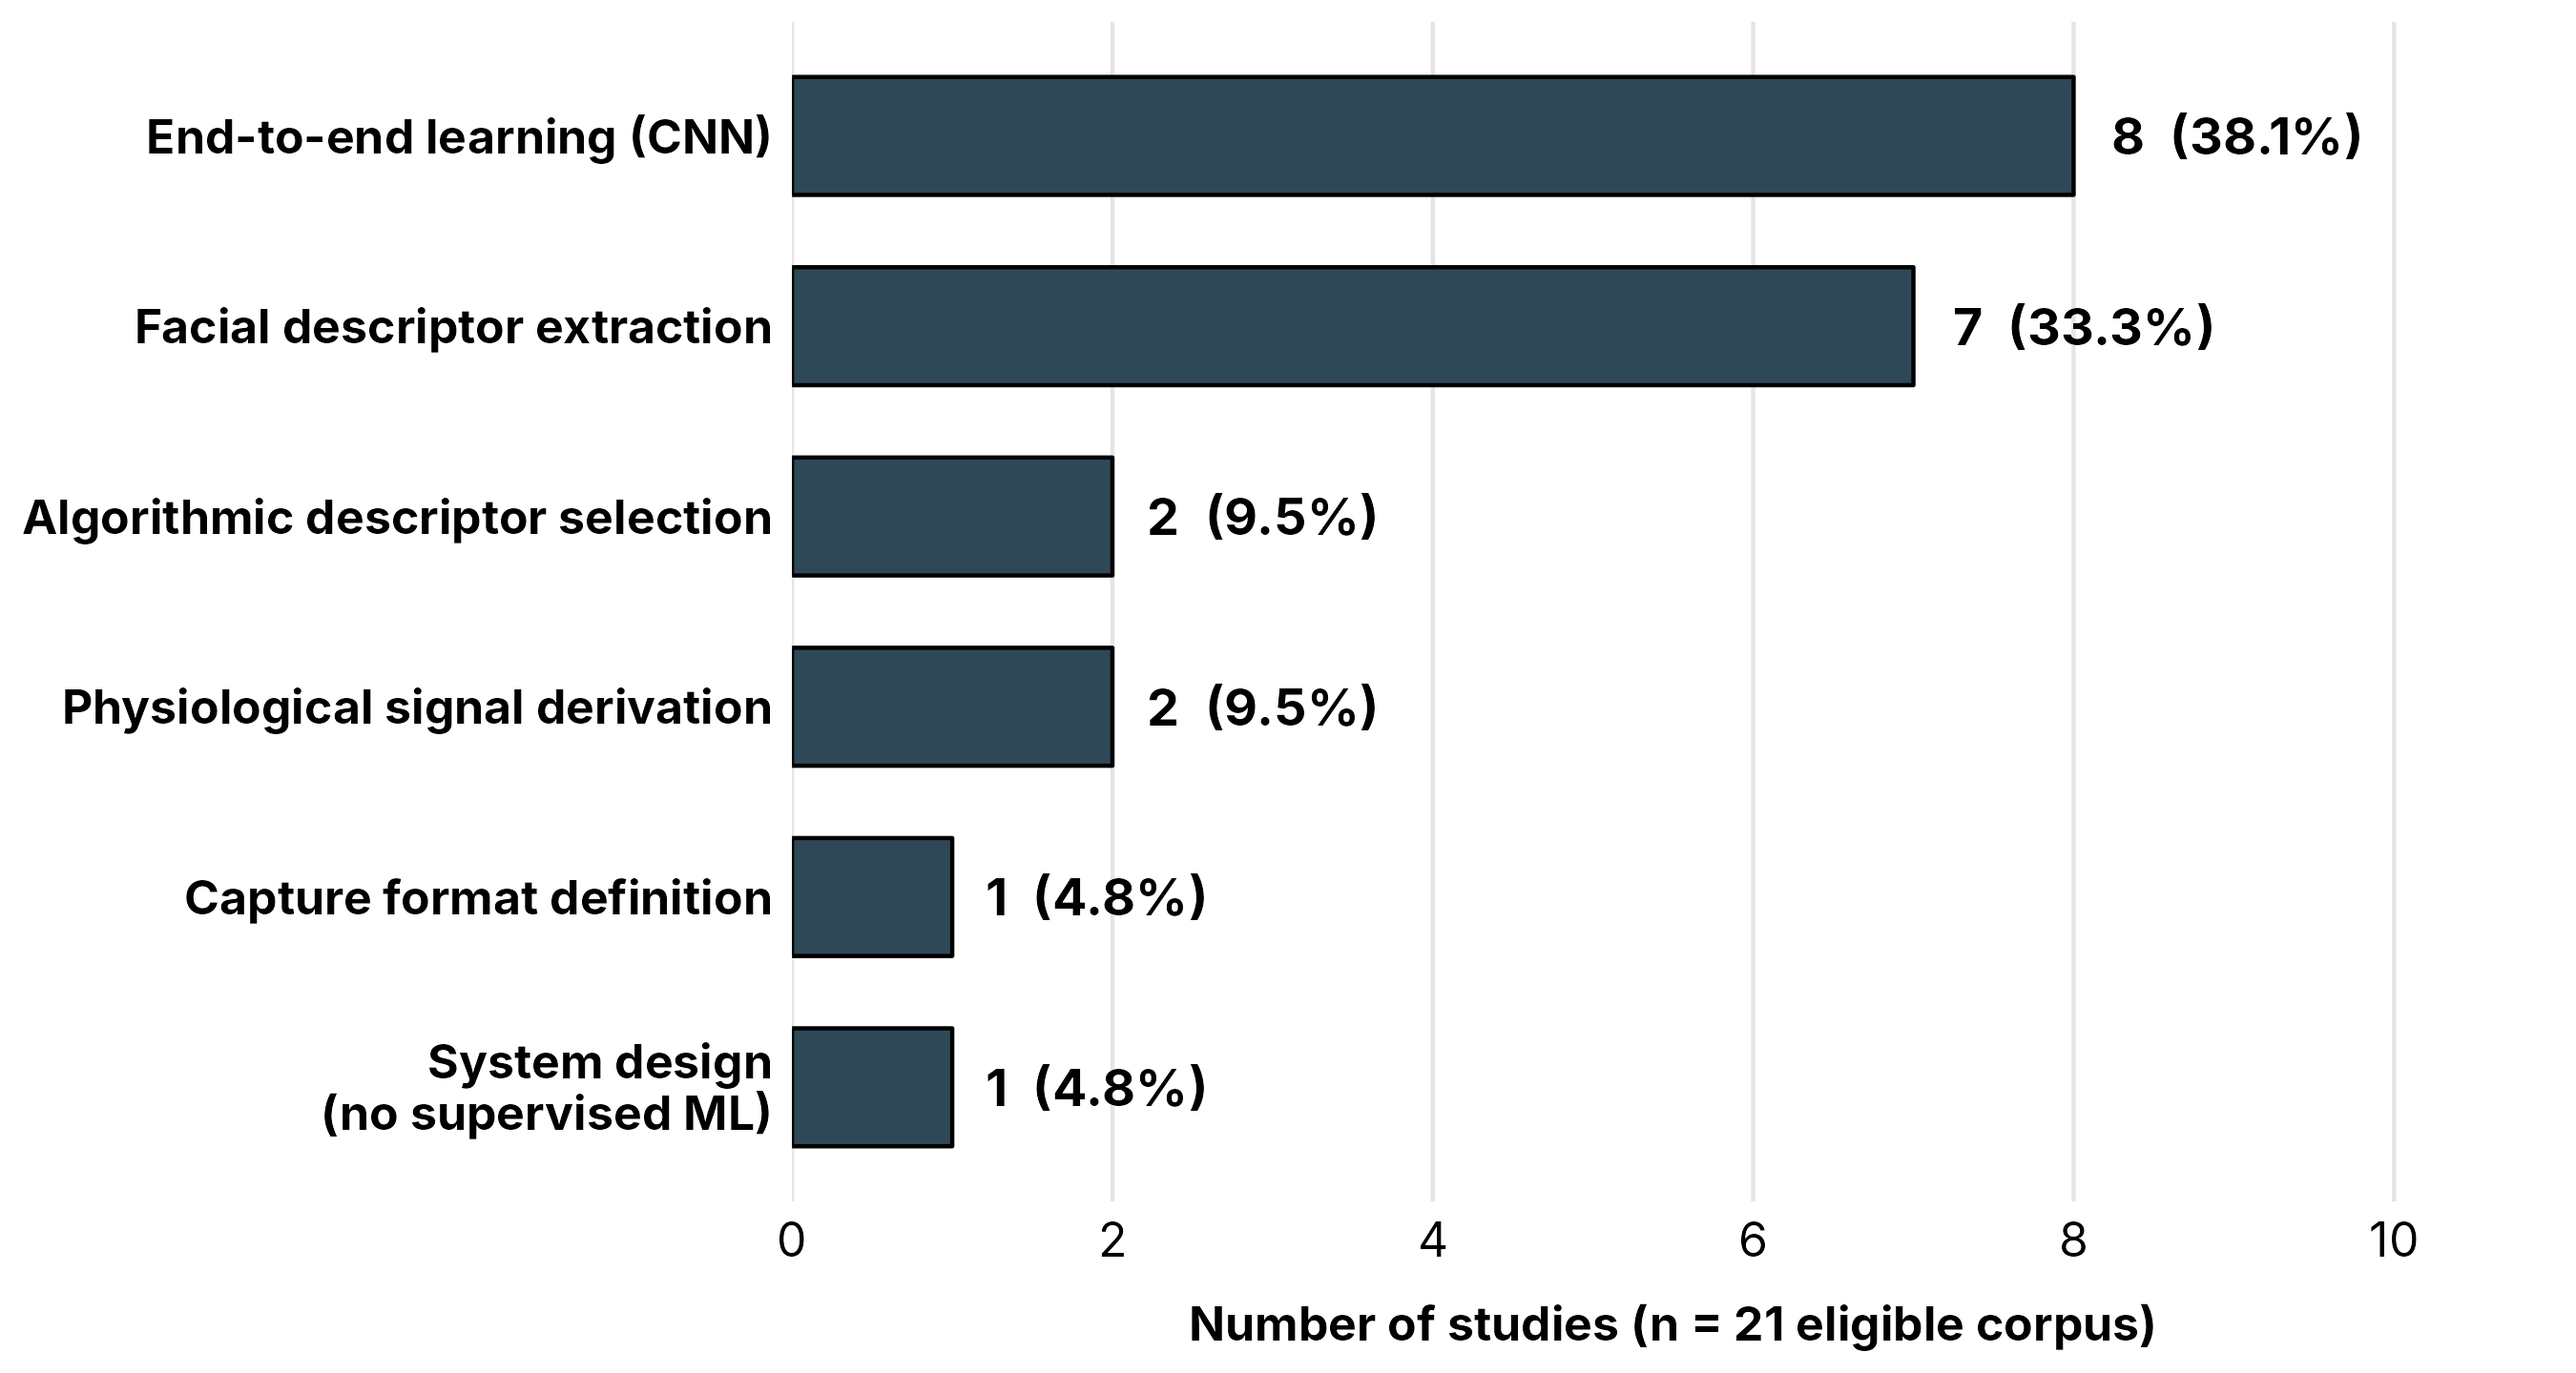
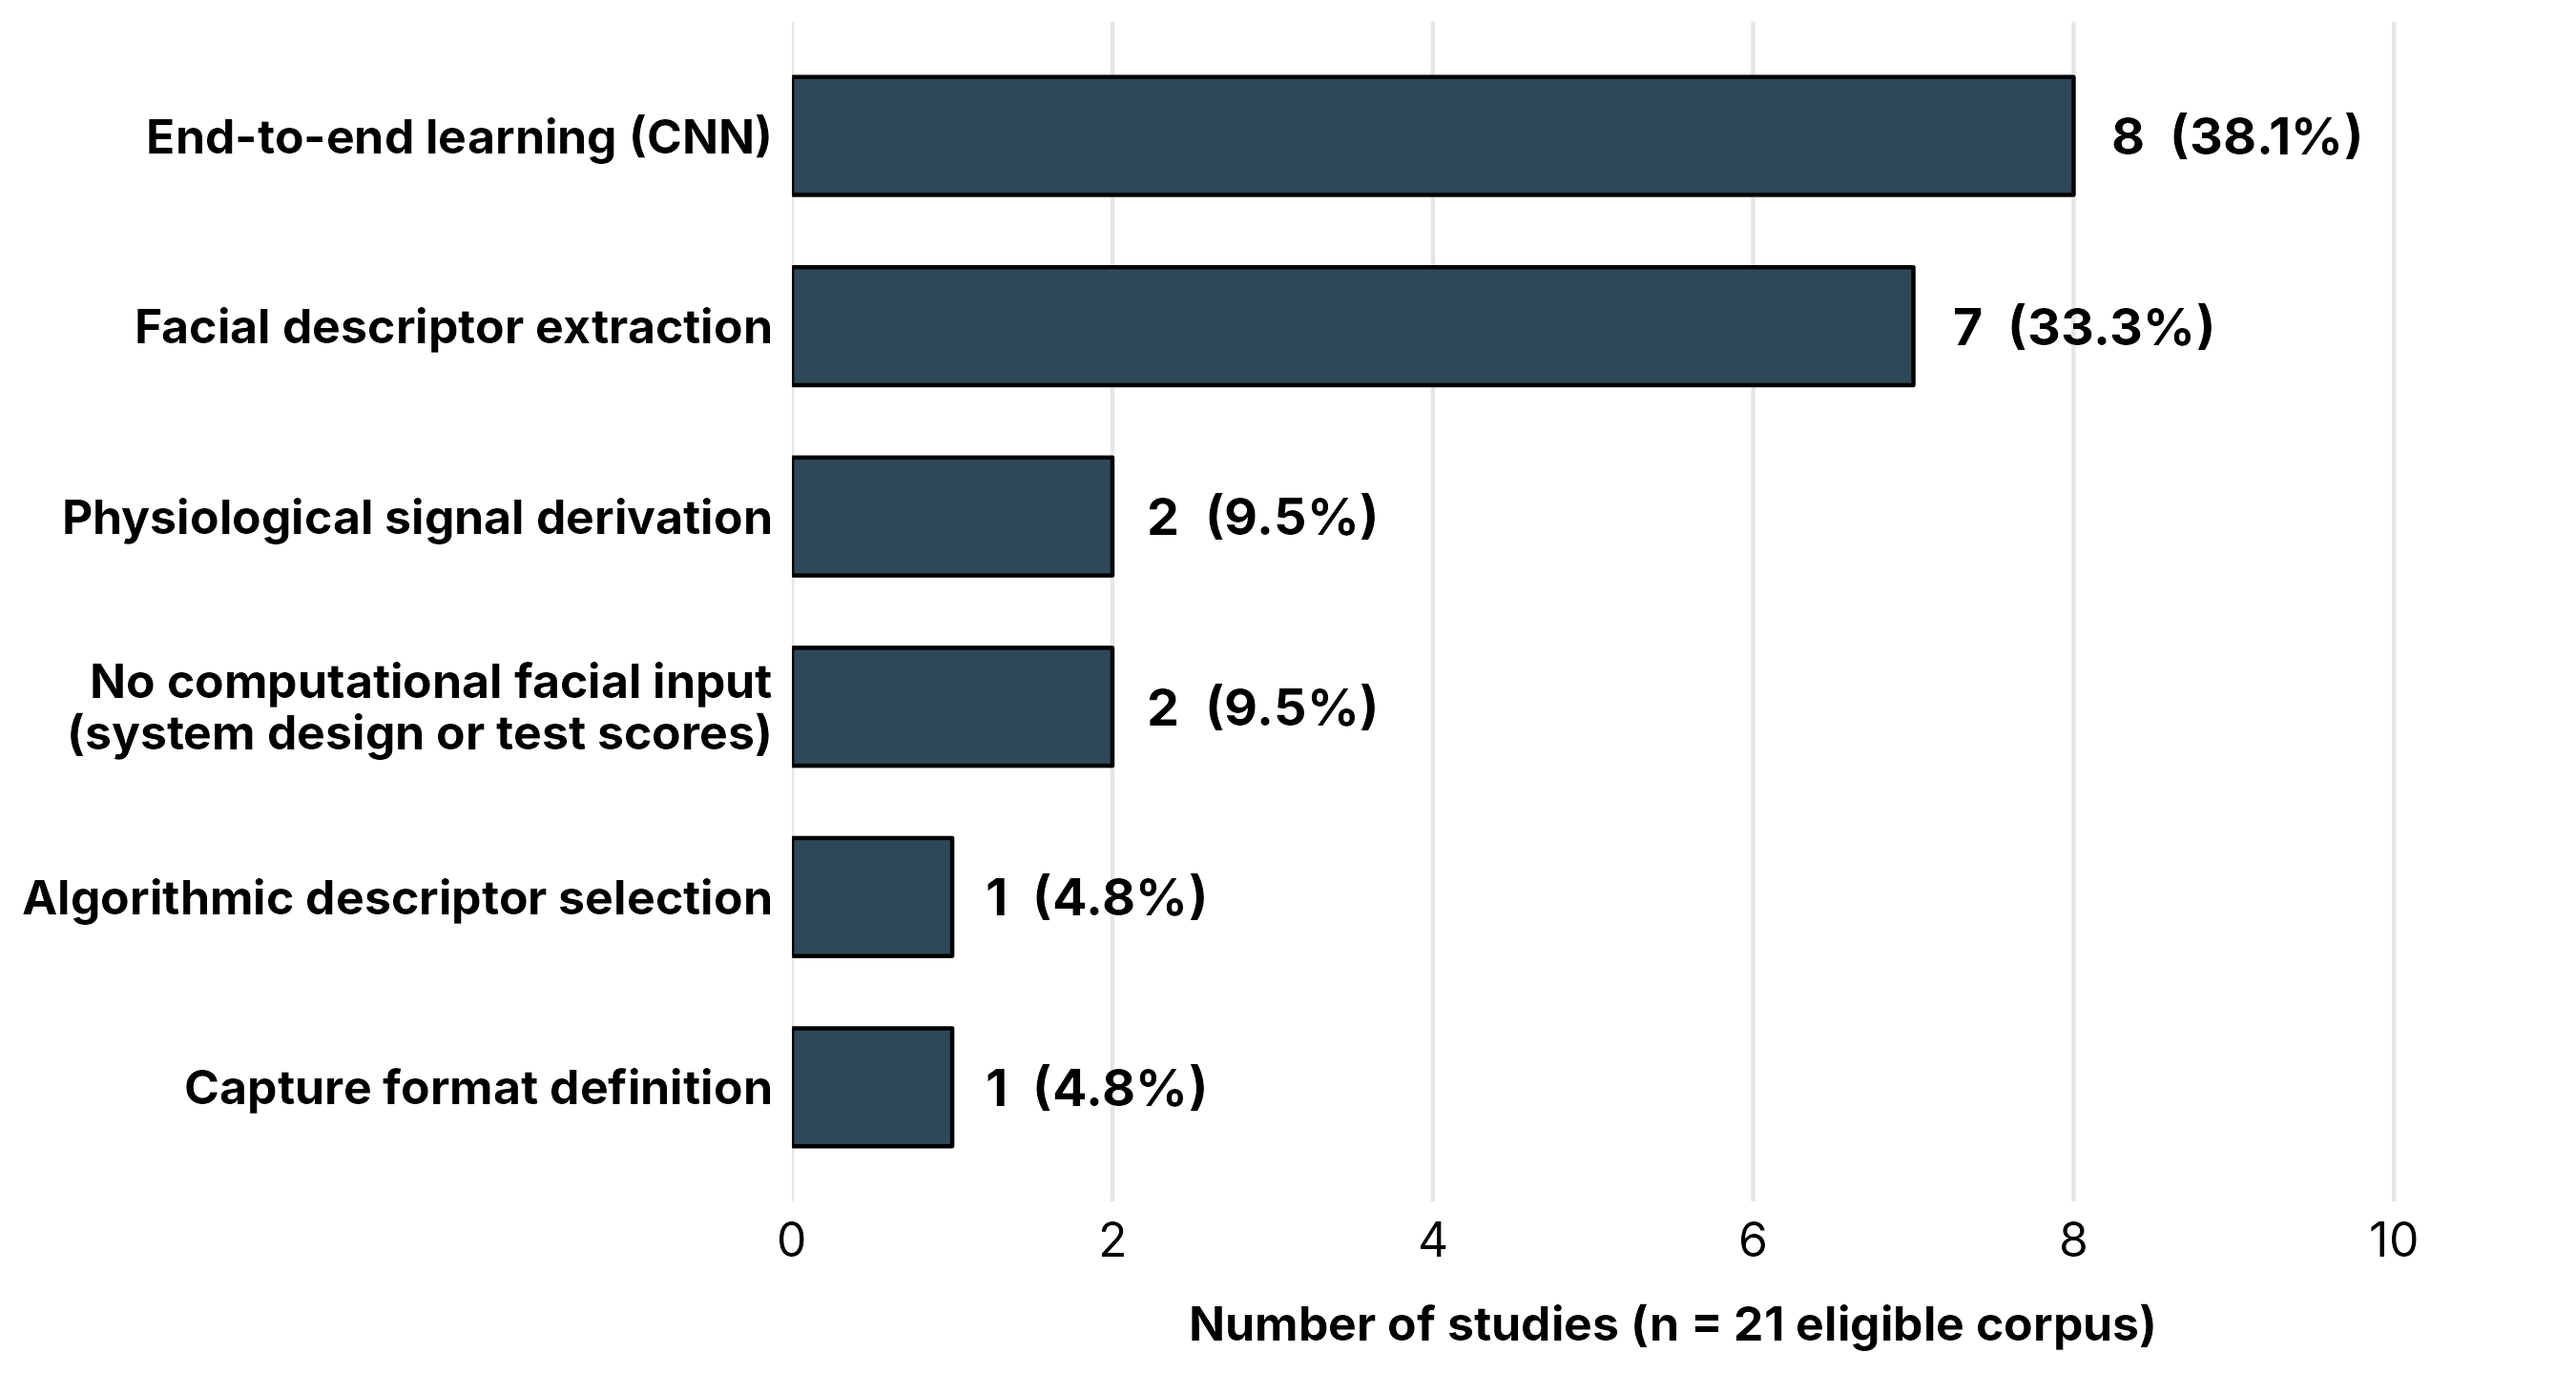
fix: verify fig_7 input categories (Leo, Reed) against full texts

diff --git a/CHANGELOG.md b/CHANGELOG.md
@@ -72,6 +72,12 @@ Versions before V3.3 lack formal git tags; boundaries are estimated from commit 
   the full text could not be accessed (note g); new note p. Hassan et al. (2025) later
   set to Yes after verifying the statement "a stratified cross-validation technique was
   used" in the article; folds and grouping by child remain unreported (note g).
+- Figure 7 and README input features checked against the full texts: Leo et al. (2018)
+  derives action unit intensities from facial landmarks and HOG (facial descriptor
+  extraction, not algorithmic selection); Reed et al. (2021) uses emotion recognition test
+  scores without any computational facial input and joins Almeida et al. (2019) in the
+  renamed category "No computational facial input (system design or test scores)".
+  Groups now 8, 7, 2, 2, 1, 1 (algorithmic descriptor selection 2 to 1).
 - Figure 6: the five web-sourced studies (Shaik, Alam, Aljbori, Vedantham and Hosney)
   all train their main model on Kaggle autism collections, so "Kaggle ASD collections"
   rises from 4 to 5 and the "Kaggle FER" tile is removed; Vedantham et al. (2025) uses a
@@ -92,7 +98,8 @@ Versions before V3.3 lack formal git tags; boundaries are estimated from commit 
 
 
 ### Commits
-- `PENDING` 2026-11-07 fix: set Hassan stratified validation in S4 after full-text check
+- `PENDING` 2026-11-07 fix: verify fig_7 input categories (Leo, Reed) against full texts
+- `919ef7d` 2026-11-07 fix: set Hassan stratified validation in S4 after full-text check
 - `2cd6ee5` 2026-11-06 fix: verify S4 validation column, merge Kaggle FER into Kaggle ASD in fig_6
 - `1e75a8b` 2026-11-06 fix: move Hassan to D4 (ASD level task), correct CK+ age range in S3, web accuracy range in README, fig_8 y-axis
 - `e3bd31c` 2026-11-06 fix: reclassify corpus to N=21, update S1-S4, regenerate figures 2-8, update PRISMA, README and CHANGELOG

diff --git a/README.md b/README.md
@@ -172,10 +172,10 @@ Critical gap: no validated datasets representing Latin American pediatric popula
 |-------|---------|---|
 | End-to-end learning (CNN) | 8 | 38.1% |
 | Facial descriptor extraction | 7 | 33.3% |
-| Algorithmic descriptor selection | 2 | 9.5% |
 | Physiological signal derivation | 2 | 9.5% |
+| No computational facial input (system design or test scores) | 2 | 9.5% |
+| Algorithmic descriptor selection | 1 | 4.8% |
 | Capture format definition | 1 | 4.8% |
-| System design (no supervised classification) | 1 | 4.8% |
 
 ### Methodological Limitations (n = 21 eligible corpus)
 
